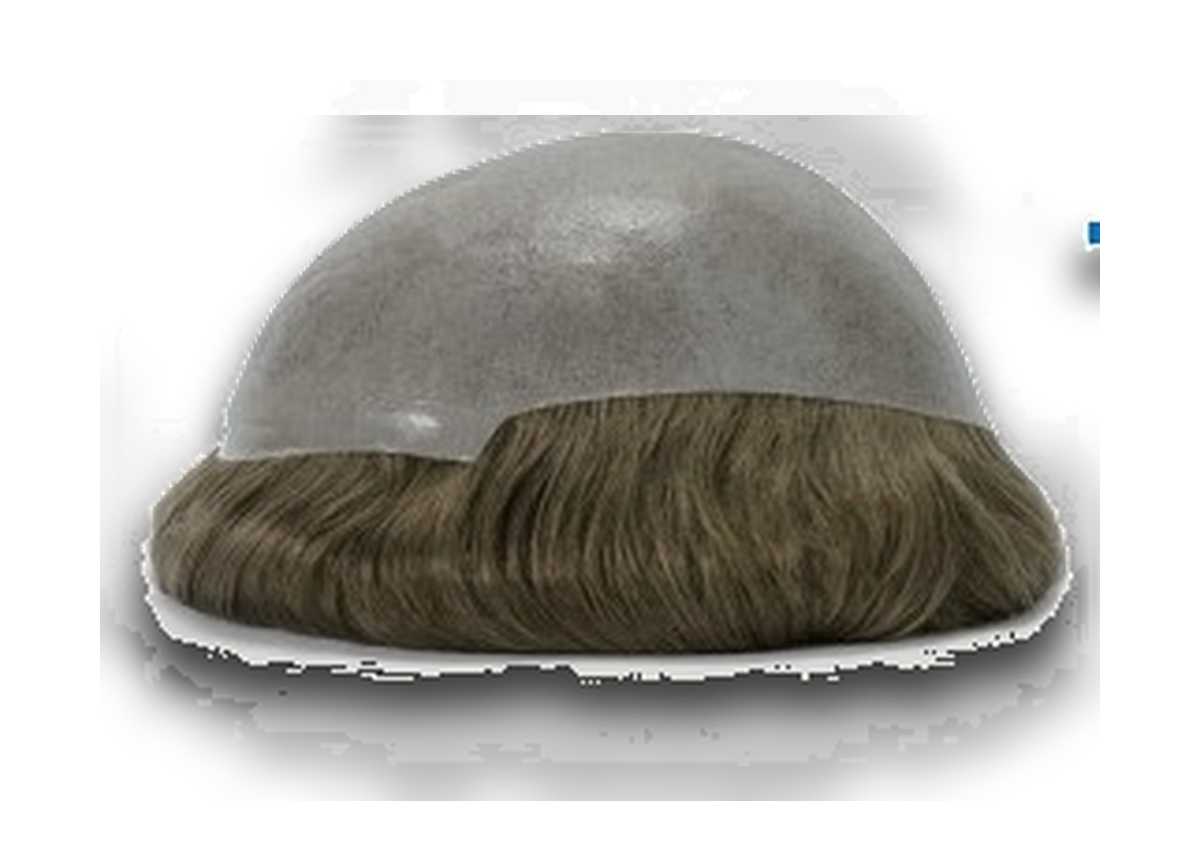
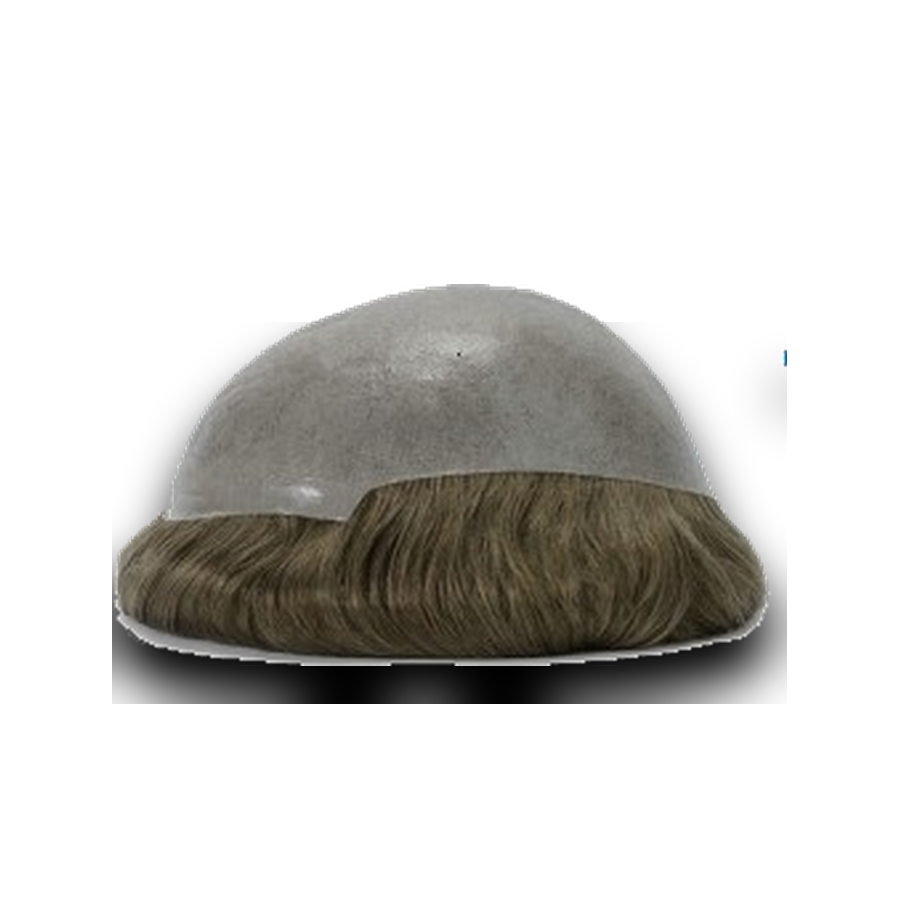
Add files via upload

diff --git a/styles.css b/styles.css
@@ -1,1 +1,20 @@
 :root{--bg:#080604;--bg2:#12100c;--card:#18140f;--soft:#242018;--gold:#d9a94a;--gold2:#f4d27a;--text:#f7f0e2;--muted:#c9bda9;--line:rgba(217,169,74,.24);--shadow:0 24px 80px rgba(0,0,0,.45);--radius:26px;--max:1180px}*{box-sizing:border-box}html{scroll-behavior:smooth}body{margin:0;background:var(--bg);color:var(--text);font-family:Inter,Arial,'Noto Sans Thai',sans-serif;line-height:1.65;overflow-x:hidden}img{max-width:100%;display:block}a{color:inherit;text-decoration:none}.container{width:min(var(--max),calc(100% - 32px));margin:auto}.grain{position:fixed;inset:0;pointer-events:none;opacity:.06;z-index:0;background-image:radial-gradient(#fff 1px,transparent 1px);background-size:4px 4px}.site-header{position:sticky;top:0;z-index:20;display:flex;align-items:center;justify-content:space-between;padding:14px max(18px,calc((100vw - var(--max))/2));background:rgba(8,6,4,.78);backdrop-filter:blur(16px);border-bottom:1px solid var(--line)}.brand{display:flex;gap:12px;align-items:center}.brand-mark{display:grid;place-items:center;width:48px;height:48px;border:1px solid var(--gold);border-radius:14px;background:linear-gradient(145deg,#21190d,#0b0805);color:var(--gold2);font-weight:900;letter-spacing:-1px}.brand-logo-wrap{background:#fff;padding:5px;overflow:hidden}.brand-logo{width:100%;height:100%;object-fit:contain;border-radius:9px}.brand strong{display:block;letter-spacing:.08em}.brand small{display:block;color:var(--muted);font-size:12px;margin-top:-4px}.nav{display:flex;gap:24px;align-items:center}.nav a{color:var(--muted);font-size:14px}.nav a:hover{color:var(--gold2)}.nav-cta{padding:10px 16px;border:1px solid var(--gold);border-radius:999px;color:var(--gold2)!important}.nav-toggle{display:none;background:none;border:1px solid var(--line);color:var(--text);font-size:22px;border-radius:12px;padding:6px 10px}.section-dark{background:radial-gradient(circle at top left,rgba(217,169,74,.12),transparent 35%),linear-gradient(180deg,#0b0805,#11100d)}.hero{position:relative;min-height:760px;display:flex;align-items:center;isolation:isolate}.hero-bg{position:absolute;inset:0;background-size:cover;background-position:center;transition:opacity .5s ease;z-index:-3}.hero-overlay{position:absolute;inset:0;background:linear-gradient(90deg,rgba(8,6,4,.92),rgba(8,6,4,.58),rgba(8,6,4,.88)),linear-gradient(0deg,#080604 0%,transparent 35%);z-index:-2}.hero-content{padding:120px 0 96px}.eyebrow{letter-spacing:.18em;text-transform:uppercase;font-size:12px;color:var(--muted);font-weight:800}.gold{color:var(--gold2)}h1,h2,h3{line-height:1.12;margin:0 0 18px}h1{font-size:clamp(42px,7vw,86px);max-width:900px;letter-spacing:-.06em}h2{font-size:clamp(30px,4vw,54px);letter-spacing:-.04em}h3{font-size:26px}.lead{font-size:clamp(18px,2vw,24px);color:var(--muted);max-width:700px}.hero-actions{display:flex;gap:14px;flex-wrap:wrap;margin-top:34px}.btn{display:inline-flex;align-items:center;justify-content:center;min-height:48px;padding:13px 22px;border-radius:999px;font-weight:800;border:1px solid transparent;cursor:pointer}.btn-gold{background:linear-gradient(135deg,var(--gold2),var(--gold));color:#161006;box-shadow:0 18px 44px rgba(217,169,74,.22)}.btn-outline{border-color:var(--line);color:var(--text);background:rgba(255,255,255,.04)}.hero-dots{display:flex;gap:10px;margin-top:40px}.hero-dots button{width:42px;height:5px;border:0;border-radius:99px;background:rgba(255,255,255,.2);cursor:pointer}.hero-dots button.active{background:var(--gold2)}.trust-bar{position:absolute;left:50%;bottom:26px;transform:translateX(-50%);display:grid;grid-template-columns:repeat(4,1fr);gap:1px;border:1px solid var(--line);border-radius:18px;overflow:hidden;background:rgba(255,255,255,.05);backdrop-filter:blur(16px)}.trust-bar span{padding:16px;text-align:center;color:var(--gold2);background:rgba(8,6,4,.5);font-weight:700}.intro{display:grid;grid-template-columns:1.2fr .8fr;gap:40px;padding:90px 0}.intro p:last-child{color:var(--muted);font-size:18px}.benefits{display:grid;grid-template-columns:repeat(4,1fr);gap:18px;padding-bottom:80px}.benefit-card,.product-card,.review-card,.booking-form,.faq-item{background:linear-gradient(180deg,rgba(255,255,255,.06),rgba(255,255,255,.025));border:1px solid var(--line);border-radius:var(--radius);box-shadow:var(--shadow)}.benefit-card{padding:26px}.benefit-card h3{font-size:20px;color:var(--gold2)}.benefit-card p{color:var(--muted);margin:0}.section-title{margin-bottom:34px}.section-title.center{text-align:center;max-width:760px;margin-left:auto;margin-right:auto}.section-title p{color:var(--muted)}.products{padding:90px 0}.product-grid{display:grid;grid-template-columns:repeat(3,1fr);gap:22px}.product-card{overflow:hidden;position:relative}.product-img-wrap{aspect-ratio:1/1;background:radial-gradient(circle at center,rgba(217,169,74,.10),#0d0b08 68%);overflow:hidden;display:flex;align-items:center;justify-content:center;padding:18px}.product-img-wrap img{width:100%;height:100%;object-fit:contain;object-position:center;filter:drop-shadow(0 24px 34px rgba(0,0,0,.45))}.product-body{padding:24px}.badge{display:inline-flex;padding:5px 10px;border:1px solid var(--line);border-radius:999px;color:var(--gold2);font-size:12px;font-weight:800;margin-bottom:12px}.price{display:flex;gap:12px;align-items:baseline;margin:14px 0}.price del{color:#887b66}.price strong{font-size:28px;color:var(--gold2)}.features{padding:0;margin:18px 0 0;list-style:none}.features li{padding:8px 0;color:var(--muted);border-top:1px solid rgba(255,255,255,.06)}.features li:before{content:'✓';color:var(--gold2);margin-right:8px}.note{color:var(--muted);text-align:center;margin-top:24px}.before-after{padding:100px 0}.ba-card{display:grid;grid-template-columns:auto 1fr 320px auto;gap:22px;align-items:center;background:linear-gradient(145deg,rgba(255,255,255,.08),rgba(255,255,255,.03));border:1px solid var(--line);border-radius:32px;padding:22px;box-shadow:var(--shadow)}.ba-pair{display:grid;grid-template-columns:1fr 1fr;gap:16px}.ba-pair figure{position:relative;margin:0;overflow:hidden;border-radius:22px;background:#111;aspect-ratio:4/5;border:1px solid rgba(255,255,255,.08)}.ba-pair img{width:100%;height:100%;object-fit:cover;object-position:center}.ba-pair figcaption{position:absolute;left:12px;top:12px;background:rgba(0,0,0,.72);color:var(--gold2);border:1px solid var(--line);border-radius:999px;padding:5px 10px;font-size:12px;font-weight:900}.ba-copy{padding:10px}.ba-copy p{color:var(--muted)}.circle-btn{width:46px;height:46px;border-radius:50%;border:1px solid var(--line);background:rgba(255,255,255,.06);color:var(--gold2);font-size:32px;line-height:1;cursor:pointer}.process{padding:90px 0}.steps{display:grid;grid-template-columns:repeat(4,1fr);gap:18px;counter-reset:step}.step{position:relative;padding:26px;border:1px solid var(--line);border-radius:var(--radius);background:rgba(255,255,255,.04);counter-increment:step}.step:before{content:counter(step);display:grid;place-items:center;width:42px;height:42px;background:linear-gradient(135deg,var(--gold2),var(--gold));color:#151006;border-radius:50%;font-weight:900;margin-bottom:16px}.reviews{padding:90px 0}.review-shell{display:grid;grid-template-columns:auto minmax(0,680px) auto;justify-content:center;align-items:center;gap:18px}.review-card{overflow:hidden;display:grid;grid-template-columns:220px 1fr;min-height:260px}.review-card img{width:100%;height:100%;object-fit:cover}.review-copy{padding:28px}.review-copy p{font-size:20px;color:var(--muted)}.booking{padding:100px 0}.booking-grid{display:grid;grid-template-columns:1fr 1fr;gap:40px;align-items:start}.contact-cards{display:grid;gap:12px;margin-top:24px}.contact-cards a{padding:16px 18px;border:1px solid var(--line);border-radius:16px;background:rgba(255,255,255,.04);color:var(--gold2);font-weight:800}.booking-form{padding:24px;display:grid;gap:14px}.booking-form label{display:grid;gap:7px;color:var(--muted);font-weight:700}.booking-form input,.booking-form select,.booking-form textarea{width:100%;border:1px solid var(--line);border-radius:14px;background:#0b0906;color:var(--text);padding:13px 14px;font:inherit}.form-status{min-height:24px;color:var(--gold2);font-weight:800;margin:0}.form-note{color:var(--muted);font-size:13px;margin:0}.faq{padding:90px 0}.faq-list{display:grid;gap:14px;max-width:880px;margin:auto}.faq-item{padding:20px 22px}.faq-item summary{cursor:pointer;font-weight:900;color:var(--gold2)}.faq-item p{color:var(--muted);margin-bottom:0}.footer{border-top:1px solid var(--line);padding:38px 0;background:#060503}.footer-grid{display:grid;grid-template-columns:1fr auto auto;gap:28px;align-items:start}.footer a{display:block;color:var(--muted);margin:4px 0}.footer p{color:var(--muted);margin:8px 0 0}@media(max-width:900px){.nav{position:fixed;left:16px;right:16px;top:78px;display:none;flex-direction:column;align-items:stretch;background:rgba(8,6,4,.96);border:1px solid var(--line);border-radius:22px;padding:18px}.nav.open{display:flex}.nav-toggle{display:block}.hero{min-height:720px}.trust-bar{position:relative;left:auto;bottom:auto;transform:none;grid-template-columns:1fr 1fr;margin-bottom:22px}.intro,.booking-grid{grid-template-columns:1fr}.benefits,.steps{grid-template-columns:1fr 1fr}.product-grid{grid-template-columns:1fr}.ba-card{grid-template-columns:1fr;padding:16px}.ba-pair{grid-template-columns:1fr 1fr}.circle-btn{justify-self:center}.review-shell{grid-template-columns:1fr}.review-card{grid-template-columns:1fr}.review-card img{height:260px}.footer-grid{grid-template-columns:1fr}}@media(max-width:560px){.container{width:min(100% - 22px,var(--max))}.site-header{padding:10px 12px}.brand-mark{width:42px;height:42px}.hero-content{padding-top:82px}.hero{min-height:680px}.trust-bar{grid-template-columns:1fr 1fr}.trust-bar span{font-size:12px;padding:11px}.benefits,.steps,.ba-pair{grid-template-columns:1fr}.products,.process,.reviews,.faq{padding:62px 0}.before-after,.booking{padding:72px 0}.product-img-wrap{aspect-ratio:4/3;padding:14px}}
+
+/* V4.2 product image balance: HS1 / HS1E only */
+.product-card:nth-child(1) .product-img-wrap,
+.product-card:nth-child(2) .product-img-wrap{
+  padding:24px;
+}
+.product-card:nth-child(1) .product-img-wrap img,
+.product-card:nth-child(2) .product-img-wrap img{
+  width:92%;
+  height:92%;
+  object-fit:contain;
+  object-position:center;
+}
+@media(max-width:560px){
+  .product-card:nth-child(1) .product-img-wrap,
+  .product-card:nth-child(2) .product-img-wrap{padding:18px;}
+  .product-card:nth-child(1) .product-img-wrap img,
+  .product-card:nth-child(2) .product-img-wrap img{width:96%;height:96%;}
+}

diff --git a/README.md b/README.md
@@ -1,21 +1,13 @@
-# 1DD STUDIO V4 Upload Ready
+# 1DD STUDIO V4.2 Product Balanced Upload
 
-เวอร์ชันนี้แก้เฉพาะจุดตามคำสั่ง:
+แก้เฉพาะจุดตามคำสั่ง:
+- ปรับรูป HS1 Premium และ HS1E Essential Plus กลับไปใช้ภาพสินค้าเวอร์ชันก่อนหน้า แต่ครอป/บาลานซ์ให้ดูสวยขึ้นในกรอบสินค้า
+- ลบคำว่า “แบบกล่องเดียว” ออกจากข้อมูลเว็บถ้ามีอยู่
+- ส่วนอื่นของเว็บคงเดิม
 
-- ปรับรูป HS1 Premium ให้บาลานซ์ขึ้น และใช้ไฟล์ใหม่ `hs1-premium-v4-balanced.png`
-- ปรับรูป HS1E Essential Plus ให้บาลานซ์ขึ้น และใช้ไฟล์ใหม่ `hs1e-essential-v4-balanced.png`
-- เอาคำว่า `แบบกล่องเดียว` ออกจากหัวข้อ Before / After
-- เพิ่มโลโก้ร้าน `logo-1dd-studio.jpg` ที่ Header
-- ส่วนอื่นคงโครงเดิม
-
-## วิธีอัปโหลด GitHub
-
-1. แตก ZIP นี้ก่อน
-2. เข้า GitHub Repository `1DDSTUDIO`
-3. กด `Add file` > `Upload files`
-4. ลากไฟล์ทั้งหมดในโฟลเดอร์นี้ขึ้น GitHub
-5. ใส่ Commit message: `Update V4 product images and remove BA wording`
-6. กด `Commit changes`
-7. รอ Cloudflare Pages deploy ประมาณ 1-3 นาที
-
-ถ้าเว็บยังไม่เปลี่ยน ให้กด Hard Refresh: Mac ใช้ `Command + Shift + R`
+วิธีอัปโหลด GitHub:
+1. แตก ZIP นี้
+2. เข้า GitHub repository `1DDSTUDIO`
+3. กด Add file > Upload files
+4. ลากไฟล์ทั้งหมดในโฟลเดอร์นี้ขึ้นไปทับไฟล์เดิม
+5. Commit changes ด้วยข้อความ `Upload V4.2 product balanced`
